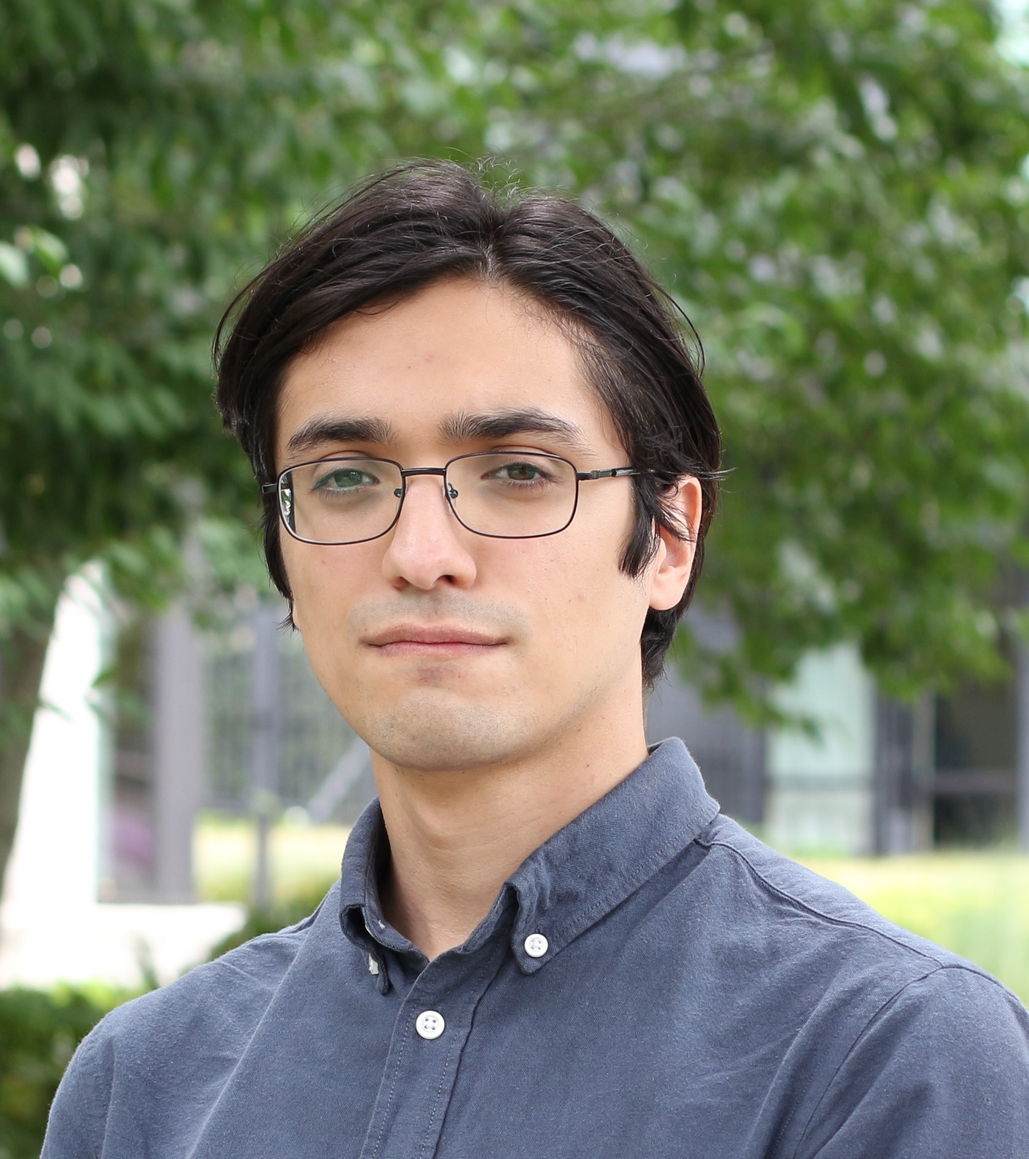
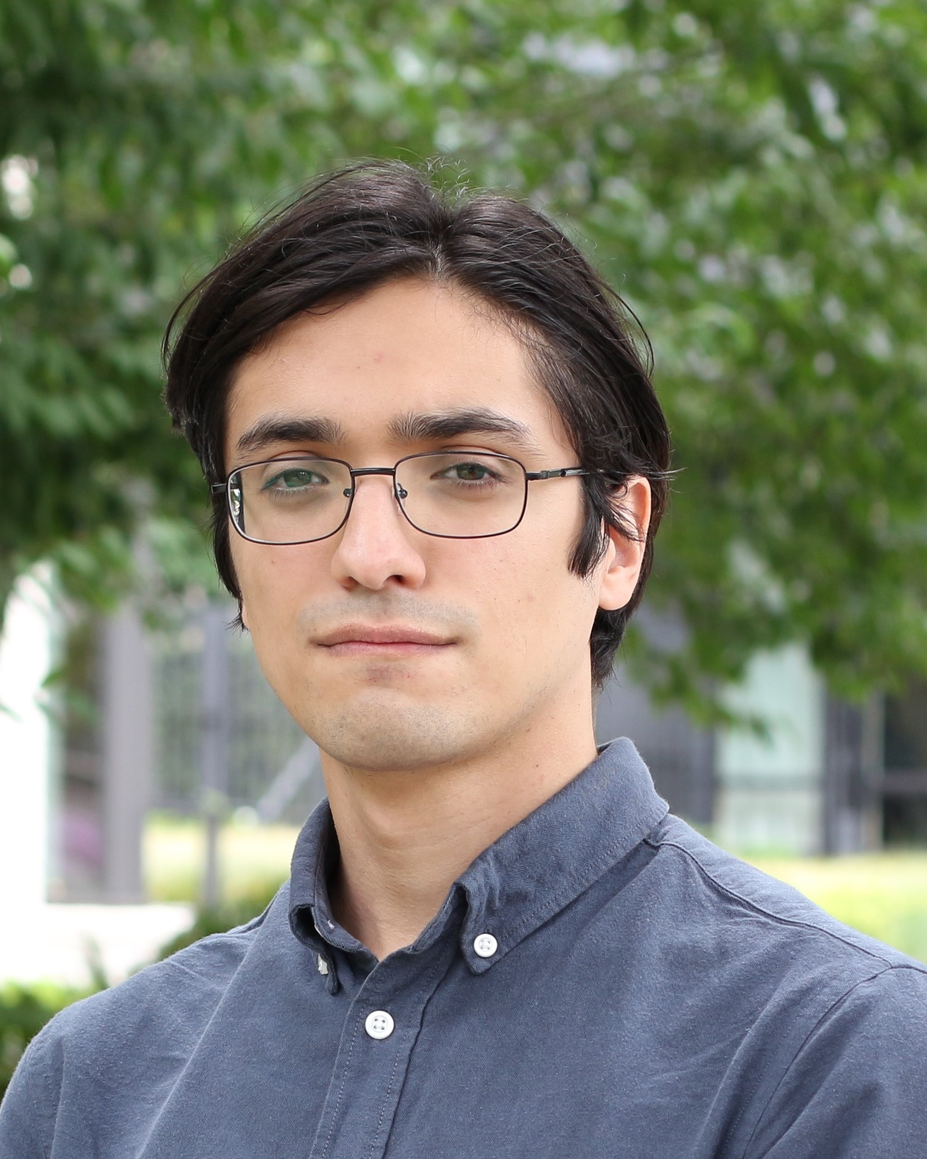
New photos

diff --git a/_team/about_kastner.md b/_team/about_kastner.md
@@ -2,13 +2,13 @@
 layout: page
 title: Dr. Patrick Kastner
 description: Assistant Professor and Director of the Sustainable Urban Systems Lab at Georgia Tech.
-img: assets/img/team/Kastner_Linkedin.jpg
+img: assets/img/team/Kastner.jpg
 importance: 1
 category: Director
 ---
 
 <div class="profile float-right"> 
-<img src="/assets/img/team/Kastner_Linkedin.jpg" class="img-fluid z-depth-1 rounded"/>
+<img src="/assets/img/team/Kastner.jpg" class="img-fluid z-depth-1 rounded"/>
 </div>
 
 Patrick Kastner is an Assistant Professor with the [School of Architecture](https://arch.gatech.edu/) and directs the [Sustainable Urban Systems Lab](https://sustainableurbansystems.com/) at Georgia Tech, specializing in environmental performance simulation and the decarbonization of buildings and cities.

diff --git a/_team/about_rahimi.md b/_team/about_rahimi.md
@@ -1,8 +1,8 @@
 ---
 layout: page
 title: Sina Rahimi
-description: PhD student in Building Science at TMU
-img: assets/img/team/Rahimi.jpeg
+description: PhD Student in Building Science at TMU
+img: assets/img/team/Rahimi.jpg
 importance: 1
 category: PhD
 ---

diff --git a/_team/about_xu.md b/_team/about_xu.md
@@ -1,8 +1,8 @@
 ---
 layout: page
 title: Hang Xu
-description: PhD student in Architecture
-img:
+description: PhD Student in Architecture
+img: https://raw.githubusercontent.com/HangXXXu/Selfimage/refs/heads/main/image_1.png
 importance: 1
 category: PhD
 ---

diff --git a/_team/about_changnawa.md b/_team/about_changnawa.md
@@ -1,7 +1,7 @@
 ---
 layout: page
 title: Thanasarn Changnawa
-description: PhD student in Architecture
+description: PhD Student in Architecture
 img: https://avatars.githubusercontent.com/u/137975914
 importance: 1
 category: PhD

diff --git a/_team/about_almaian.md b/_team/about_almaian.md
@@ -2,7 +2,7 @@
 layout: page
 title: Maryam Alamaian
 description: MS in High Performance Building
-img:
+img: https://arch.gatech.edu/sites/default/files/2023-11/Almaian.jpeg
 importance: 1
 category: Alumni
 ---

diff --git a/_team/about_vegas.md b/_team/about_vegas.md
@@ -1,7 +1,7 @@
 ---
 layout: page
 title: Gonzalo L. Vegas Olcese
-description: PhD student in Architecture
+description: PhD Student in Architecture
 img: assets/img/team/Vegas.jpg
 importance: 1
 category: PhD

diff --git a/_team/about_rothe.md b/_team/about_rothe.md
@@ -2,7 +2,7 @@
 layout: page
 title: Chinmay Rothe
 description: MS in High Performance Building
-img:
+img: https://arch.gatech.edu/sites/default/files/2023-11/Rothe.jpeg
 importance: 1
 category: MS
 ---

diff --git a/_team/about_jadhav.md b/_team/about_jadhav.md
@@ -2,7 +2,7 @@
 layout: page
 title: Shruti Jadhav
 description: MS in High Performance Building
-img: assets/img/team/Jadhav.jpeg
+img: assets/img/team/Jadhav.jpg
 importance: 1
 category: MS
 ---

diff --git a/_team/about_vangelova.md b/_team/about_vangelova.md
@@ -2,7 +2,7 @@
 layout: page
 title: Silvia Vangelova
 description: MS in ISyE
-img:
+img: https://avatars.githubusercontent.com/u/49694975?v=4
 importance: 1
 category: Alumni
 ---

diff --git a/_team/about_jiang.md b/_team/about_jiang.md
@@ -2,7 +2,7 @@
 layout: page
 title: Ze Yu Jiang
 description: Computer Science and Math
-img:
+img: assets/img/team/Jiang.jpg
 importance: 1
 category: BS
 ---

diff --git a/_team/about_mujica.md b/_team/about_mujica.md
@@ -2,7 +2,7 @@
 layout: page
 title: Sofia Mujica
 description: Mechanical Engineering
-img:
+img: assets/img/team/Mujica.jpg
 importance: 1
 category: BS
 ---

diff --git a/_team/about_mahajan.md b/_team/about_mahajan.md
@@ -2,7 +2,7 @@
 layout: page
 title: Anubha Mahajan
 description: Computer Science
-img:
+img: assets/img/team/Mahajan.jpg
 importance: 1
 category: BS
 ---
